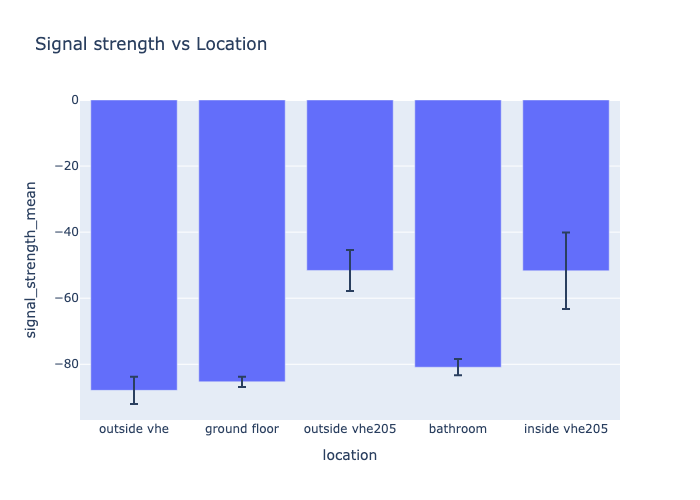
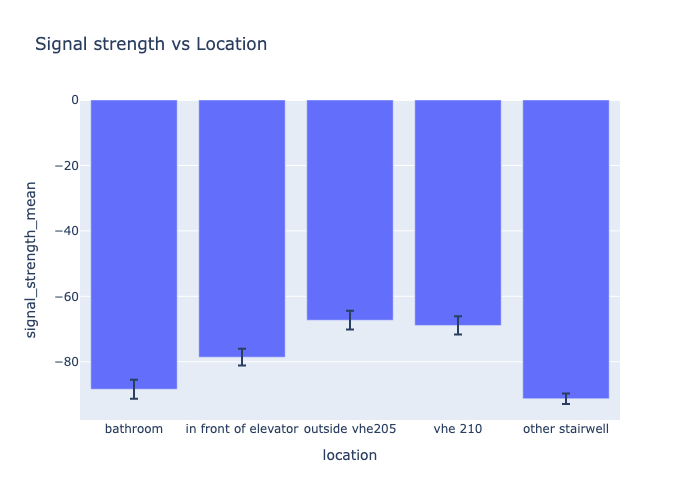
10/14 5 pm

diff --git a/ee250lab5/iperf_plot.py b/ee250lab5/iperf_plot.py
@@ -1,0 +1,124 @@
+import matplotlib.pyplot as plt 
+import pandas as pd 
+
+
+tcp_data_2m = pd.read_csv('iperf_tcp_2m.csv')
+udp_data_2m = pd.read_csv('iperf_udp_2m.csv')
+tcp_data_5m = pd.read_csv('iperf_tcp_5m.csv')
+udp_data_5m = pd.read_csv('iperf_udp_5m.csv')
+tcp_data_8m = pd.read_csv('iperf_tcp_8m.csv')
+udp_data_8m = pd.read_csv('iperf_udp_8m.csv')
+tcp_data_10m = pd.read_csv('iperf_tcp_10m.csv')
+udp_data_10m = pd.read_csv('iperf_udp_10m.csv')
+tcp_data_15m = pd.read_csv('iperf_tcp_15m.csv')
+udp_data_15m = pd.read_csv('iperf_udp_15m.csv')
+
+#2m
+plt.figure(figsize = (10, 6))
+
+for index, row in tcp_data_2m.iterrows():
+    distance = row['Distance']
+    run_no = row[['Run1', 'Run2', 'Run3', 'Run4', 'Run5']]
+    plt.plot([1, 2, 3, 4, 5], run_no, marker = '-', label = f'Distance {distance}m')
+
+for index, row in udp_data_2m.iterrows():
+    distance = row['Distance']
+    run_no = row[['Run1', 'Run2', 'Run3', 'Run4', 'Run5']]
+    plt.plot([1, 2, 3, 4, 5], run_no, marker = '-', label = f'Distance {distance}m')
+
+plt.title('Test Runs vs Throughput (2m)')
+plt.xlabel('Test Run #')
+plt.ylabel('Throughput (Mbps)')
+plt.xticks([1, 2, 3, 4, 5], ['Run 1', 'Run 2', 'Run 3', 'Run 4', 'Run 5'])
+plt.grid(True)
+plt.legend()
+
+plt.show()
+
+#5m
+plt.figure(figsize = (10,6))
+
+for index, row in tcp_data_5m.iterrows():
+    distance = row['Distance']
+    run_no = row[['Run1', 'Run2', 'Run3', 'Run4', 'Run5']]
+    plt.plot([1, 2, 3, 4, 5], run_no, marker = '-', label = f'Distance {distance}m')
+
+for index, row in udp_data_5m.iterrows():
+    distance = row['Distance']
+    run_no = row[['Run1', 'Run2', 'Run3', 'Run4', 'Run5']]
+    plt.plot([1, 2, 3, 4, 5], run_no, marker = '-', label = f'Distance {distance}m')
+
+plt.title('Test Runs vs Throughput (5m)')
+plt.xlabel('Test Run #')
+plt.ylabel('Throughput (Mbps)')
+plt.xticks([1, 2, 3, 4, 5], ['Run 1', 'Run 2', 'Run 3', 'Run 4', 'Run 5'])
+plt.grid(True)
+plt.legend()
+
+plt.show()
+
+#8m
+plt.figure(figsize = (10,6))
+
+for index, row in tcp_data_8m.iterrows():
+    distance = row['Distance']
+    run_no = row[['Run1', 'Run2', 'Run3', 'Run4', 'Run5']]
+    plt.plot([1, 2, 3, 4, 5], run_no, marker = '-', label = f'Distance {distance}m')
+
+for index, row in udp_data_8m.iterrows():
+    distance = row['Distance']
+    run_no = row[['Run1', 'Run2', 'Run3', 'Run4', 'Run5']]
+    plt.plot([1, 2, 3, 4, 5], run_no, marker = '-', label = f'Distance {distance}m')
+
+plt.title('Test Runs vs Throughput (8m)')
+plt.xlabel('Test Run #')
+plt.ylabel('Throughput (Mbps)')
+plt.xticks([1, 2, 3, 4, 5], ['Run 1', 'Run 2', 'Run 3', 'Run 4', 'Run 5'])
+plt.grid(True)
+plt.legend()
+
+plt.show()
+
+#10m
+plt.figure(figsize = (10,6))
+
+for index, row in tcp_data_10m.iterrows():
+    distance = row['Distance']
+    run_no = row[['Run1', 'Run2', 'Run3', 'Run4', 'Run5']]
+    plt.plot([1, 2, 3, 4, 5], run_no, marker = '-', label = f'Distance {distance}m')
+
+for index, row in udp_data_10m.iterrows():
+    distance = row['Distance']
+    run_no = row[['Run1', 'Run2', 'Run3', 'Run4', 'Run5']]
+    plt.plot([1, 2, 3, 4, 5], run_no, marker = '-', label = f'Distance {distance}m')
+
+plt.title('Test Runs vs Throughput (10m)')
+plt.xlabel('Test Run #')
+plt.ylabel('Throughput (Mbps)')
+plt.xticks([1, 2, 3, 4, 5], ['Run 1', 'Run 2', 'Run 3', 'Run 4', 'Run 5'])
+plt.grid(True)
+plt.legend()
+
+plt.show()
+
+#15 m
+plt.figure(figsize = (10,6))
+
+for index, row in tcp_data_15m.iterrows():
+    distance = row['Distance']
+    run_no = row[['Run1', 'Run2', 'Run3', 'Run4', 'Run5']]
+    plt.plot([1, 2, 3, 4, 5], run_no, marker = '-', label = f'Distance {distance}m')
+
+for index, row in udp_data_15m.iterrows():
+    distance = row['Distance']
+    run_no = row[['Run1', 'Run2', 'Run3', 'Run4', 'Run5']]
+    plt.plot([1, 2, 3, 4, 5], run_no, marker = '-', label = f'Distance {distance}m')
+
+plt.title('Test Runs vs Throughput (15m)')
+plt.xlabel('Test Run #')
+plt.ylabel('Throughput (Mbps)')
+plt.xticks([1, 2, 3, 4, 5], ['Run 1', 'Run 2', 'Run 3', 'Run 4', 'Run 5'])
+plt.grid(True)
+plt.legend()
+
+plt.show()

diff --git a/ee250lab5/main.py b/ee250lab5/main.py
@@ -48,7 +48,7 @@ def get_wifi_signal_strength() -> int:
 def main():
     # Choose at least 5 locations to sample the signal strength at
     # These can be rooms in your house, hallways, different floors, outside, etc. (as long as you can get a WiFi signal)
-    locations = ['outside vhe', 'ground floor', 'outside vhe205', 'bathroom', 'inside vhe205']
+    locations = ['bathroom', 'in front of elevator', 'outside vhe205', 'vhe 210', 'other stairwell']
     samples_per_location = 10 # number of samples to take per location
     time_between_samples = 1 # time between samples (in seconds)
 
